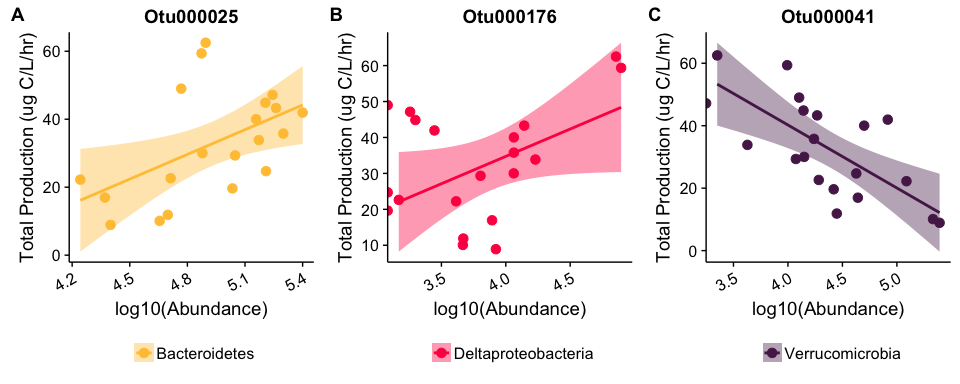
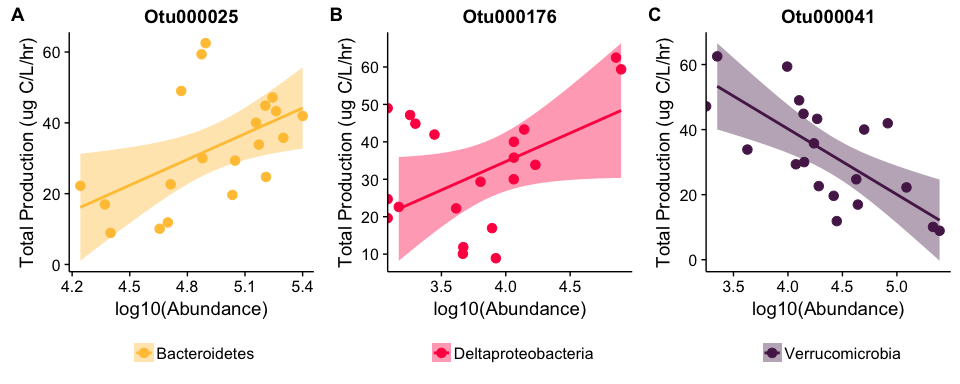
Fixed overlapping axes in plots

diff --git a/Final/OutliersRemoved/OTU_analysis.md b/Final/OutliersRemoved/OTU_analysis.md
@@ -4,6 +4,7 @@
 -   [Proportion of HNA Pool?](#proportion-of-hna-pool)
     -   [WHAT PROPORTION OF THE HNA POOL IS MADE UP BY THE 26 OTUs?](#what-proportion-of-the-hna-pool-is-made-up-by-the-26-otus)
 -   [Sum OTUs vs HNA](#sum-otus-vs-hna)
+-   [Regressions with the 3 OTUs pulled out in both analyses](#regressions-with-the-3-otus-pulled-out-in-both-analyses)
 
 ### Load the necessary libraries and set colors
 
@@ -239,10 +240,14 @@ dplyr::select(all_data, Sample_16S, HNA.cells, pred_totHNA_counts, sum_fracHNA)
 ggplot(all_data, aes(x = sum_abs_abund, y= HNA.cells)) +
   geom_point(size = 3) + ylab("HNA Cell Count") + 
   xlab("Sum(Abs_Abund of 26 OTUs)") + 
-  geom_abline(intercept = 0, slope = 1)
+  geom_abline(intercept = 0, slope = 1) +
+  theme(axis.text.x = element_text(angle = 30, hjust = 1, vjust = 1))
 ```
 
 <img src="OTU_analysis_files/figure-markdown_github/pred-HNA-1.png" style="display: block; margin: auto;" />
+
+Regressions with the 3 OTUs pulled out in both analyses
+=======================================================
 
 ``` r
 plot_OTU25 <- ggplot(dplyr::filter(AbsAbund_OTUs_26, OTU == "Otu000025"), 
@@ -254,8 +259,7 @@ plot_OTU25 <- ggplot(dplyr::filter(AbsAbund_OTUs_26, OTU == "Otu000025"),
   geom_smooth(method = "lm", color = "#FFC543") +
   ylab("Total Production (ug C/L/hr)") + 
   theme(legend.position = "bottom",
-        legend.title = element_blank(),
-        axis.text.x = element_text(angle = 30, hjust = 1, vjust = 1))
+        legend.title = element_blank())
 
 
 
@@ -268,8 +272,7 @@ plot_OTU41 <- ggplot(dplyr::filter(AbsAbund_OTUs_26, OTU == "Otu000041"),
   geom_smooth(method = "lm", color = "#562258") +
   ylab("Total Production (ug C/L/hr)") + 
   theme(legend.position = "bottom",
-        legend.title = element_blank(),
-        axis.text.x = element_text(angle = 30, hjust = 1, vjust = 1))
+        legend.title = element_blank())
 
 
 
@@ -282,8 +285,7 @@ plot_OTU176 <- ggplot(dplyr::filter(AbsAbund_OTUs_26, OTU == "Otu000176"),
   geom_smooth(method = "lm", color = "#FF2151") +
   ylab("Total Production (ug C/L/hr)") + 
   theme(legend.position = "bottom",
-        legend.title = element_blank(),
-        axis.text.x = element_text(angle = 30, hjust = 1, vjust = 1))
+        legend.title = element_blank())
 
 
 
